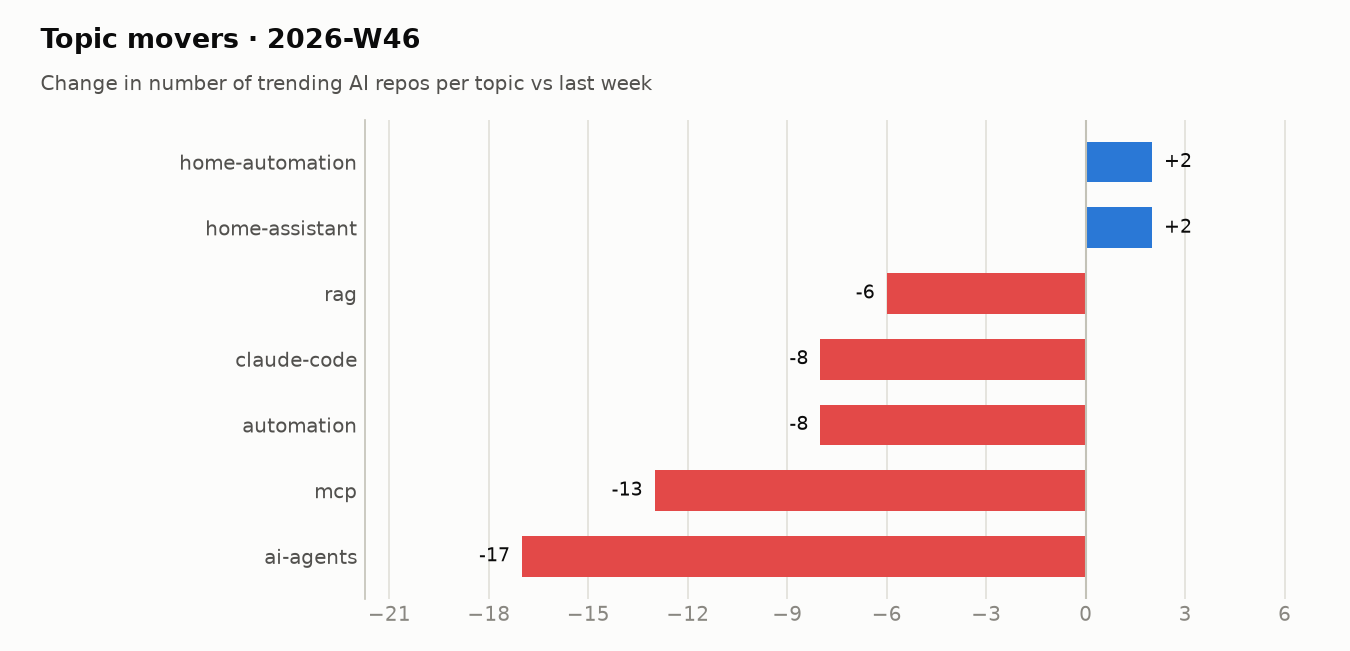
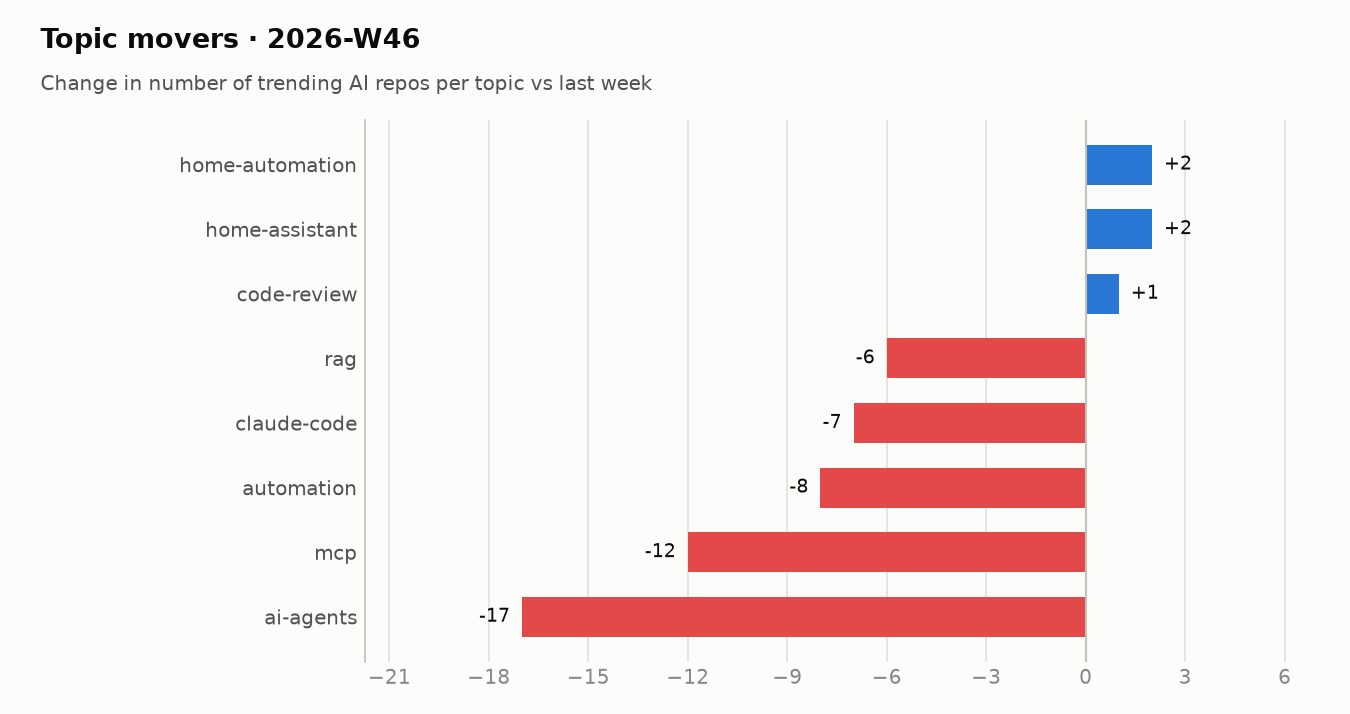
trending: snapshot 2026-11-14

diff --git a/README.md b/README.md
@@ -7,30 +7,29 @@ Every morning a GitHub Actions workflow reads the GitHub trending page, looks up
 ## Live view
 
 <!-- TRACKER_START -->
-### 🔥 AI repos trending today · 2026-11-13
+### 🔥 AI repos trending today · 2026-11-14
 
-9 of 13 trending repositories are AI-related.
+8 of 12 trending repositories are AI-related.
 
 | # | Repo | Language | ⭐ today | ⭐ total | Topics |
 |--:|---|---|--:|--:|---|
-| 1 | [GoogleChrome/modern-web-guidance-src](https://github.com/GoogleChrome/modern-web-guidance-src)<br><sub>Star GoogleChrome / modern-web-guidance-src Keep your coding agent up to date with the lat…</sub> | TypeScript | 739 | 3,895 | – |
-| 2 | [openai/codex-security](https://github.com/openai/codex-security)<br><sub>Star openai / codex-security OpenAI's Codex Security CLI and TypeScript SDK for finding, v…</sub> | TypeScript | 643 | 12,735 | `ai-security` `application-security` `cli` `code-scanning` |
-| 6 | [QwenLM/qwen-code](https://github.com/QwenLM/qwen-code)<br><sub>Star QwenLM / qwen-code An open-source AI coding agent that lives in your terminal.</sub> | TypeScript | 151 | 30,047 | `agentic` `ai` `ai-agent` `ai-coding` |
-| 7 | [ashhart/TensorFold](https://github.com/ashhart/TensorFold)<br><sub>Sponsor Star ashhart / TensorFold LLM Inference Engine for Metal, CUDA and Vulkan.</sub> | Zig | 54 | 2,038 | `ai` `ai-tools` `llm` `llm-inference` |
-| 9 | [addyosmani/agent-skills](https://github.com/addyosmani/agent-skills)<br><sub>Star addyosmani / agent-skills Production-grade engineering skills for AI coding agents.</sub> | JavaScript | 816 | 116,930 | `agent-skills` `antigravity` `claude-code` `codex` |
-| 10 | [meta/astryx](https://github.com/meta/astryx)<br><sub>Star meta / astryx An open source design system that's fully customizable and agent ready</sub> | TypeScript | 1,830 | 27,008 | – |
-| 11 | [CopilotKit/OpenBot](https://github.com/CopilotKit/OpenBot)<br><sub>Star CopilotKit / OpenBot Open-source AI coworkers that each get a computer of their own: …</sub> | TypeScript | 298 | 11,933 | `ag-ui` `agent-governance` `ai-agents` `browser-automation` |
-| 12 | [Alishahryar1/free-claude-code](https://github.com/Alishahryar1/free-claude-code)<br><sub>Star Alishahryar1 / free-claude-code Use Claude Code, Codex, Antigravity, VSCode, Pi, and …</sub> | Python | 415 | 69,637 | – |
-| 13 | [ggml-org/llama.cpp](https://github.com/ggml-org/llama.cpp)<br><sub>Star ggml-org / llama.cpp LLM inference in C/C++</sub> | C++ | 176 | 134,774 | `ggml` |
+| 1 | [alibaba/open-code-review](https://github.com/alibaba/open-code-review)<br><sub>Star alibaba / open-code-review Secure, fast, efficient, battle-tested at Alibaba's scale.…</sub> | Go | 215 | 50,920 | `agent` `agent-skills` `code-review` `code-review-assistant` |
+| 2 | [GoogleChrome/modern-web-guidance-src](https://github.com/GoogleChrome/modern-web-guidance-src)<br><sub>Star GoogleChrome / modern-web-guidance-src Keep your coding agent up to date with the lat…</sub> | TypeScript | 1,925 | 5,169 | – |
+| 3 | [openai/codex-security](https://github.com/openai/codex-security)<br><sub>Star openai / codex-security OpenAI's Codex Security CLI and TypeScript SDK for finding, v…</sub> | TypeScript | 751 | 13,318 | `ai-security` `application-security` `cli` `code-scanning` |
+| 4 | [ZhuLinsen/daily_stock_analysis](https://github.com/ZhuLinsen/daily_stock_analysis)<br><sub>Sponsor Star ZhuLinsen / daily_stock_analysis LLM 驱动的多市场股票智能分析系统：多源行情、实时新闻、决策看板与自动推送，支持零成本…</sub> | Python | 256 | 71,950 | `a-stock` `ai-agent` `aigc` `llm` |
+| 6 | [backnotprop/plannotator](https://github.com/backnotprop/plannotator)<br><sub>Star backnotprop / plannotator The workspace to stay in the loop and on top of agents - sh…</sub> | TypeScript | 108 | 10,600 | `agents` `claude-code` `code-review` `codex` |
+| 9 | [tradermonty/claude-trading-skills](https://github.com/tradermonty/claude-trading-skills)<br><sub>Star tradermonty / claude-trading-skills Claude Code skills for equity investors and trade…</sub> | Python | 69 | 4,348 | – |
+| 11 | [Likely7/Veyra-NRVideo](https://github.com/Likely7/Veyra-NRVideo)<br><sub>Star Likely7 / Veyra-NRVideo Bring PS5 GTA6 to 120FPS with DLSS 5. An advanced Windows vid…</sub> | C++ | 256 | 1,755 | – |
+| 12 | [ChromeDevTools/chrome-devtools-mcp](https://github.com/ChromeDevTools/chrome-devtools-mcp)<br><sub>Star ChromeDevTools / chrome-devtools-mcp Chrome DevTools for coding agents</sub> | TypeScript | 67 | 55,763 | `browser` `chrome` `chrome-devtools` `debugging` |
 
 ### 📊 This week so far · 2026-W46
 
 #### Summary
 
-- **19** distinct AI repos trended over 5 day(s) (last week: 58)
+- **24** distinct AI repos trended over 6 day(s) (last week: 58)
 - AI share of all trending slots: **67%** (-6 pts vs last week)
-- Dominant language: **TypeScript** (37% of AI repos)
-- Rising topics: `home-assistant` (+2), `home-automation` (+2)
+- Dominant language: **TypeScript** (38% of AI repos)
+- Rising topics: `home-assistant` (+2), `home-automation` (+2), `code-review` (+1)
 - New this week: `home-automation`, `home-assistant`
 
 #### Languages
@@ -39,14 +38,14 @@ Every morning a GitHub Actions workflow reads the GitHub trending page, looks up
 
 | Language | Repos | Share | Last week |
 |---|--:|--:|--:|
-| TypeScript | 7 | 37% | 12 |
-| Python | 5 | 26% | 21 |
-| Rust | 2 | 11% | 6 |
-| Go | 1 | 5% | 1 |
-| JavaScript | 1 | 5% | 7 |
-| Shell | 1 | 5% | 2 |
-| Zig | 1 | 5% | 1 |
-| C++ | 1 | 5% | 0 |
+| TypeScript | 9 | 38% | 12 |
+| Python | 6 | 25% | 21 |
+| Go | 2 | 8% | 1 |
+| Rust | 2 | 8% | 6 |
+| C++ | 2 | 8% | 0 |
+| JavaScript | 1 | 4% | 7 |
+| Shell | 1 | 4% | 2 |
+| Zig | 1 | 4% | 1 |
 
 #### Topics
 
@@ -54,18 +53,18 @@ Every morning a GitHub Actions workflow reads the GitHub trending page, looks up
 
 | Topic | Repos this week |
 |---|--:|
-| `mcp` | 4 |
-| `claude-code` | 3 |
-| `codex` | 3 |
+| `mcp` | 5 |
+| `claude-code` | 4 |
+| `codex` | 4 |
+| `agent-skills` | 3 |
 | `ai-agents` | 2 |
-| `agent-skills` | 2 |
 | `home-automation` | 2 |
 | `home-assistant` | 2 |
 | `claude` | 2 |
 | `ai-agent` | 2 |
+| `skills` | 2 |
 | `cli` | 2 |
-| `gpu` | 1 |
-| `nvidia` | 1 |
+| `code-review` | 2 |
 
 #### Most persistent AI repos
 
@@ -76,15 +75,15 @@ Every morning a GitHub Actions workflow reads the GitHub trending page, looks up
 | [anthropics/skills](https://github.com/anthropics/skills) | Python | 3 | 3,509 | 192,716 |
 | [addyosmani/agent-skills](https://github.com/addyosmani/agent-skills) | JavaScript | 3 | 2,068 | 116,930 |
 | [homeassistant-ai/ha-mcp](https://github.com/homeassistant-ai/ha-mcp) | Python | 3 | 1,466 | 7,607 |
+| [openai/codex-security](https://github.com/openai/codex-security) | TypeScript | 3 | 1,446 | 13,318 |
 | [anthropics/claude-quickstarts](https://github.com/anthropics/claude-quickstarts) | Python | 3 | 1,114 | 20,676 |
+| [ZhuLinsen/daily_stock_analysis](https://github.com/ZhuLinsen/daily_stock_analysis) | Python | 3 | 1,040 | 71,950 |
 | [milind-soni/OpenMausBot](https://github.com/milind-soni/OpenMausBot) | TypeScript | 2 | 3,026 | 20,240 |
-| [ZhuLinsen/daily_stock_analysis](https://github.com/ZhuLinsen/daily_stock_analysis) | Python | 2 | 784 | 70,900 |
-| [openai/codex-security](https://github.com/openai/codex-security) | TypeScript | 2 | 695 | 12,735 |
-| [mattpocock/skills](https://github.com/mattpocock/skills) | Shell | 1 | 1,225 | 321,360 |
+| [GoogleChrome/modern-web-guidance-src](https://github.com/GoogleChrome/modern-web-guidance-src) | TypeScript | 2 | 2,664 | 5,169 |
 
 ➡ Last full weekly analysis: [2026-W45](reports/weekly/2026-W45.md) · [all reports](reports/weekly)
 
-_Tracking since 2026-10-01 · 44 day(s) of data · [raw data](data/trending.csv)_
+_Tracking since 2026-10-01 · 45 day(s) of data · [raw data](data/trending.csv)_
 <!-- TRACKER_END -->
 
 ## How it works
